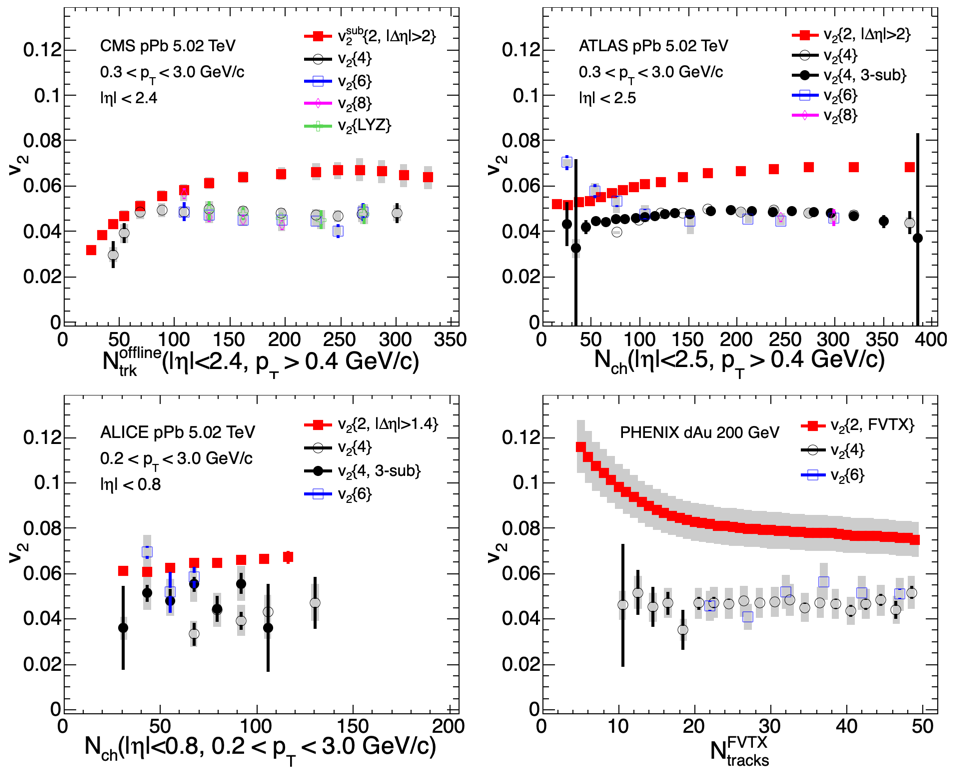
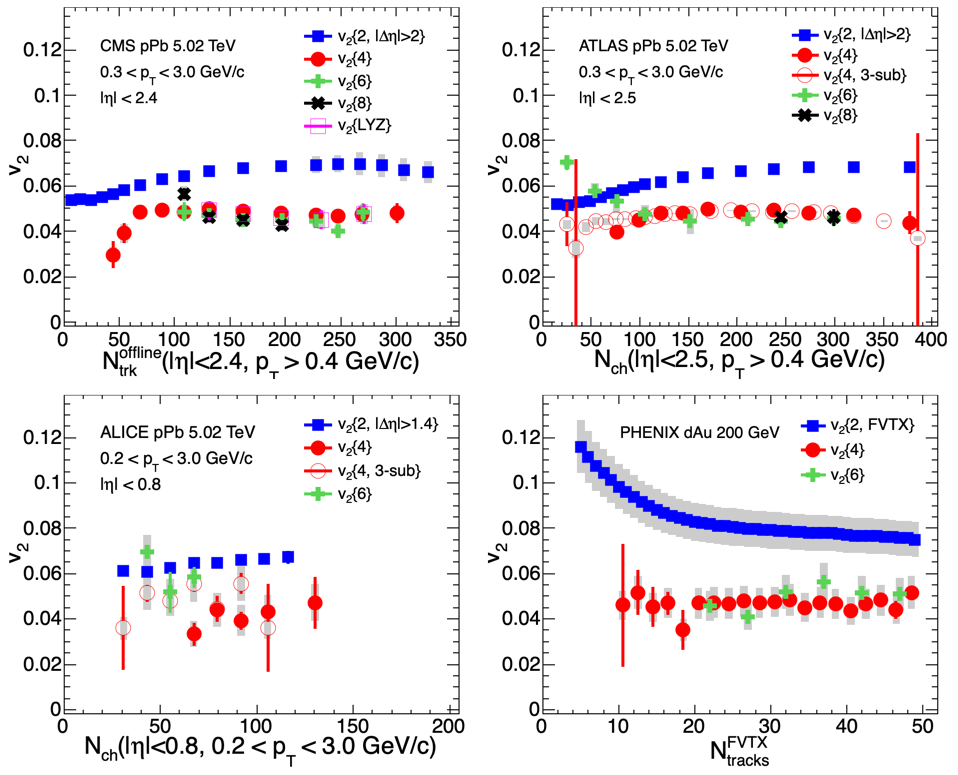
up for fig

diff --git a/hotqcd/figSubevent/multiparticleFlow.C b/hotqcd/figSubevent/multiparticleFlow.C
@@ -5,16 +5,19 @@ void multiparticleFlow()
   const int nDataSets=17;
   char fileNames[nDataSets][200]={"alicev22.txt", "alicev24.txt", "alicev24sub.txt", "alicev26.txt",
                   "atlasv22.txt", "atlasv24.txt", "atlasv24sub.txt", "atlasv26.txt", "atlasv28.txt",
-          "cmsv22.txt", "cmsv24.txt", "cmsv26.txt", "cmsv28.txt", "cmsv2lyz.txt",
+          "cmsv22nonsub.txt", "cmsv24.txt", "cmsv26.txt", "cmsv28.txt", "cmsv2lyz.txt",
                                "phenixv22.txt", "phenixv24.txt", "phenixv26.txt"};
 
-  int colors[nDataSets] = {2,1,1,4, 2,1,1,4,6, 2,1,4,6,8, 2,1,4};
-  int markers[nDataSets] = {21,24,20,25, 21,24,20,25,27, 21,24,25,27,28, 21,24,25};
+  int colors[nDataSets] = {4,2,2,8, 4,2,2,8,1, 4,2,8,1,6, 4,2,8};
+  int markers[nDataSets] = {21,20,24,34, 21,20,24,34,47, 21,20,34,47,25, 21,20,34};
   double sysValues[nDataSets][100];
   ifstream infile;
   TGraphErrors *graph[nDataSets];
   for(int i=0; i<nDataSets; i++){
-    graph[i] = (TGraphErrors*)GetGraphWithSymmYErrorsFromFile(Form("./%s",fileNames[i]),colors[i],markers[i],1.2);
+    if (i==0 || i==4 || i==9 || i==14)
+    graph[i] = (TGraphErrors*)GetGraphWithSymmYErrorsFromFile(Form("./%s",fileNames[i]),colors[i],markers[i],1.4);
+   else
+   graph[i] = (TGraphErrors*)GetGraphWithSymmYErrorsFromFile(Form("./%s",fileNames[i]),colors[i],markers[i],1.8);
     //get sys values
     infile.open(Form("./%s",fileNames[i]));
     float tmp, sysy;
@@ -161,7 +164,7 @@ void multiparticleFlow()
   leg3->SetFillColor(0);
   leg3->SetTextSize(0.048);
   leg3->SetBorderSize(0);
-  leg3->AddEntry(graph[9],"v_{2}^{sub}{2, |#Delta#eta|>2}","pl");
+  leg3->AddEntry(graph[9],"v_{2}{2, |#Delta#eta|>2}","pl");
   leg3->AddEntry(graph[10],"v_{2}{4}","pl");
   leg3->AddEntry(graph[11],"v_{2}{6}","pl");
   leg3->AddEntry(graph[12],"v_{2}{8}","pl");
